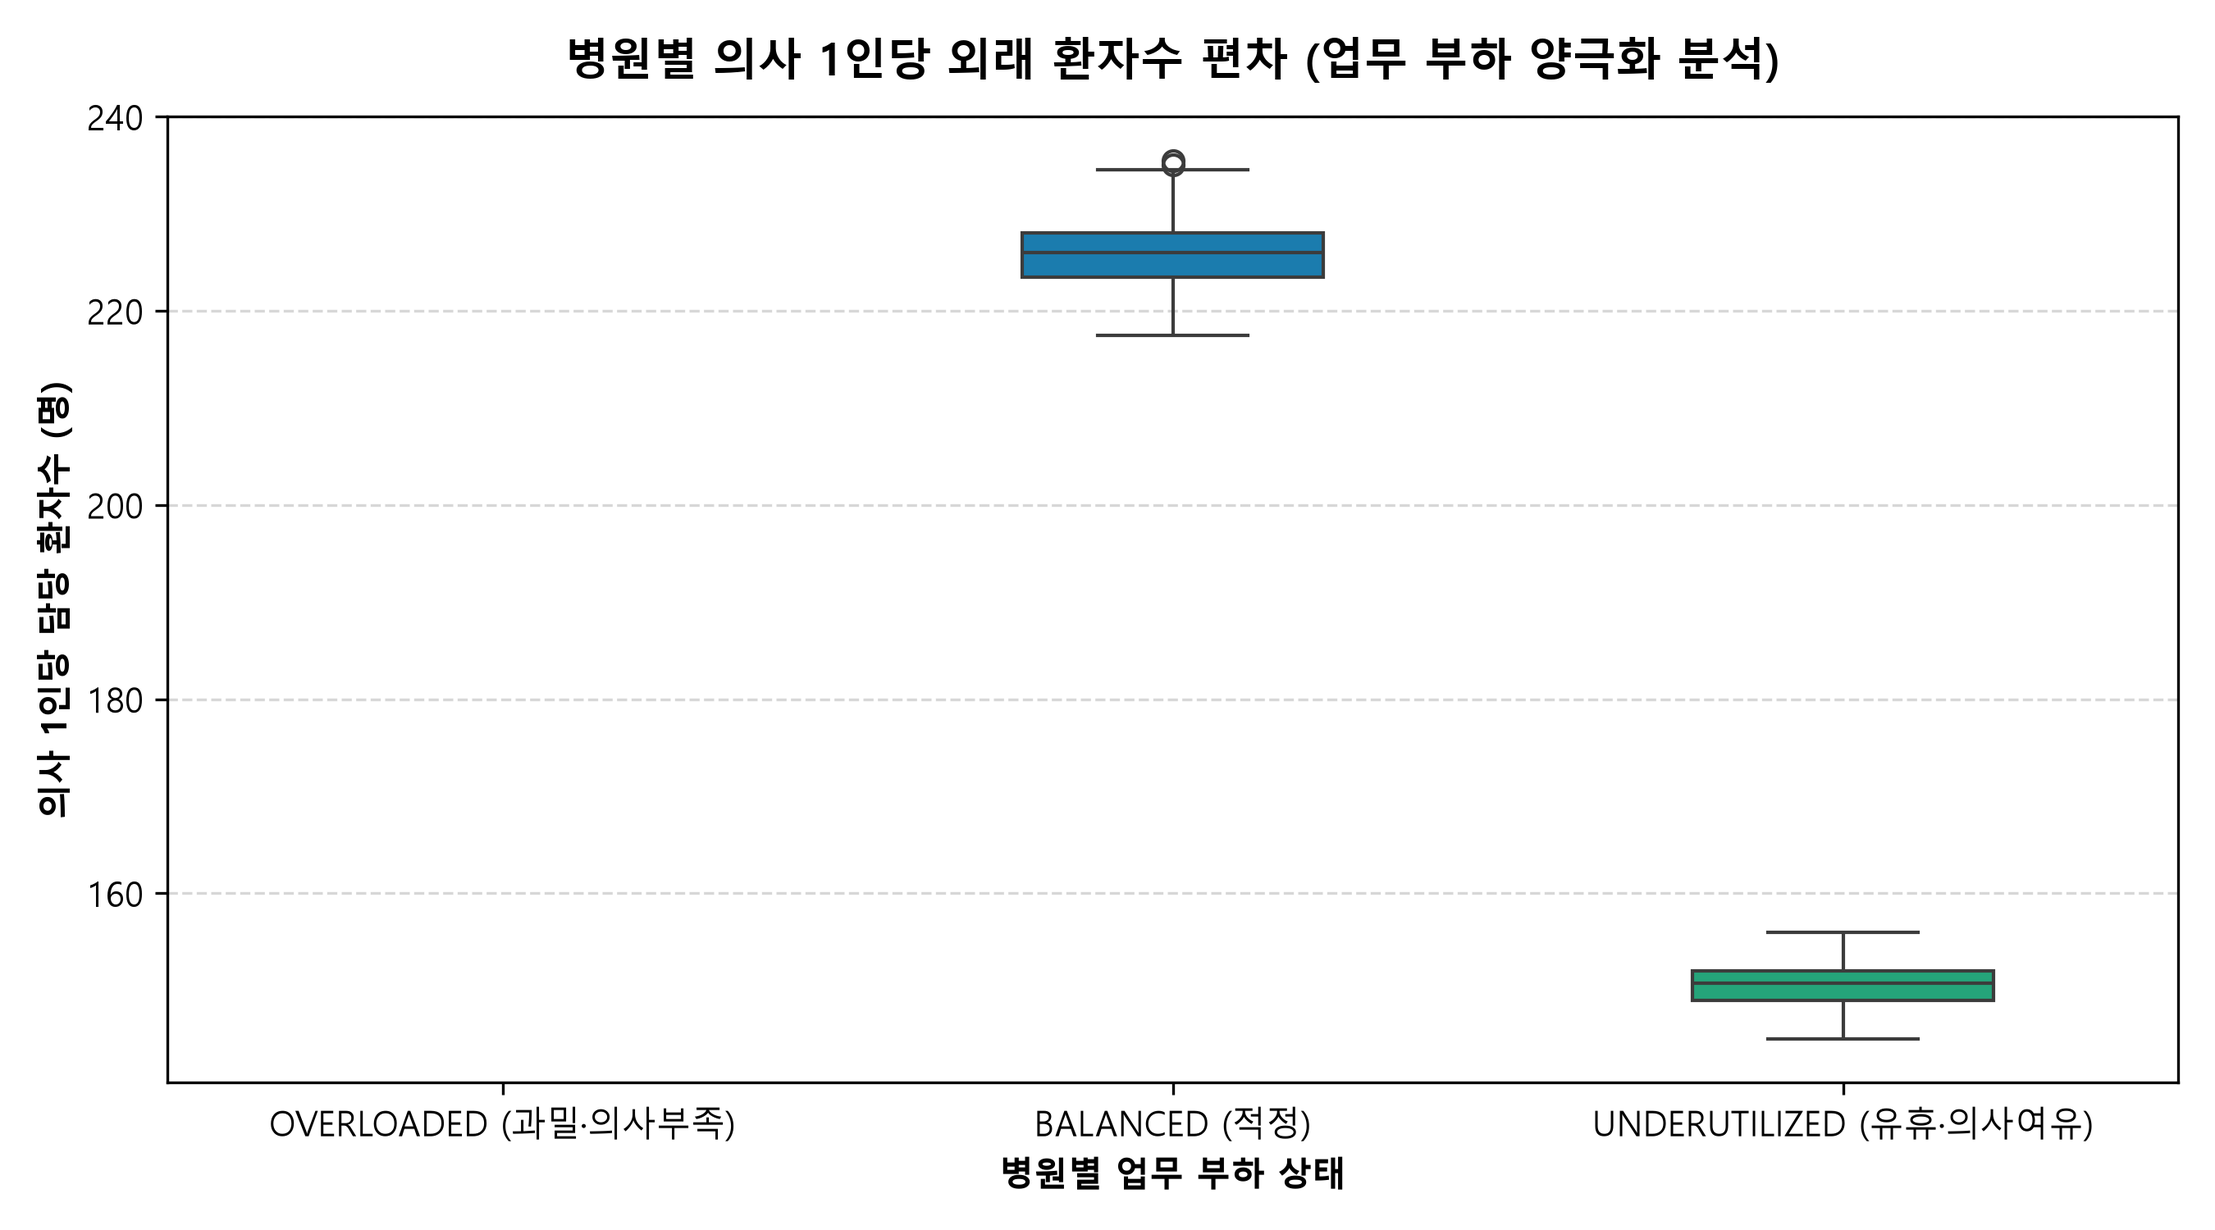
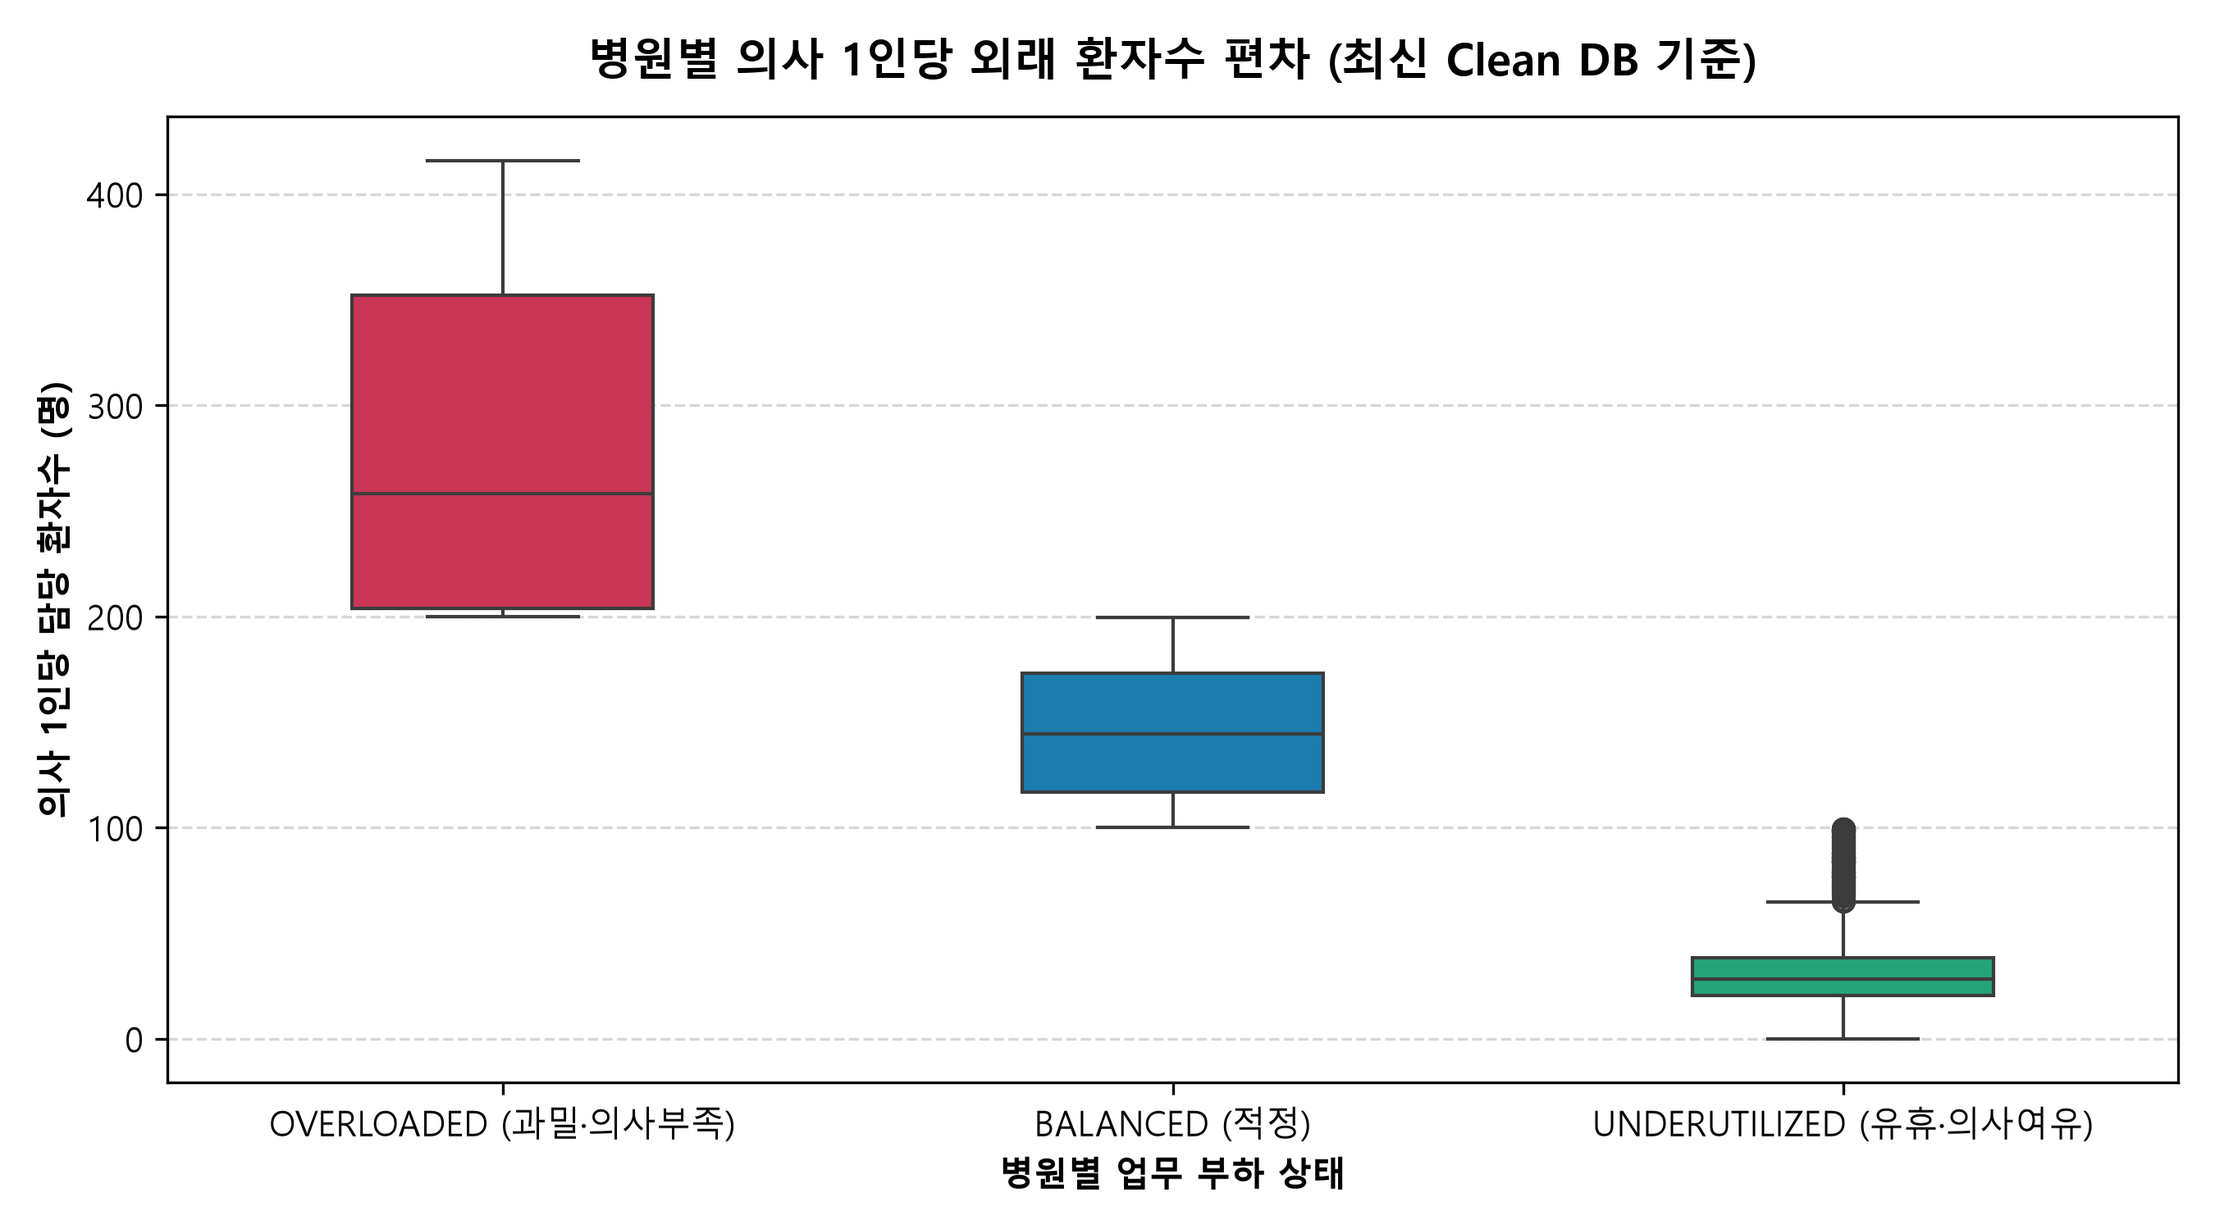
[박준범] 최신 정제 DB 반영 의사 진료배치 및 외래 대기시간 단축 분석 갱신 - 골드 마트, 분석 보고서, 시각화 차트 3종 최신화

diff --git a/common_contract.md b/common_contract.md
@@ -1,0 +1,171 @@
+# 📋 [Team 3] 데이터 확장 및 거버넌스 공통 규약서 (Common Contract)
+
+> **문서명:** `common_contract.md`  
+> **버전:** v1.0.0  
+> **기준일:** 2026-10-15  
+> **적용 범위:** Team 3 병원 EMR Medallion 데이터 파이프라인, 신규 확장 테이블(`ext_*`), 데이터 생성 및 정제 전반
+
+---
+
+## 1. 파일 포맷 및 인코딩 (File Format & Encoding)
+- **문자 인코딩:** `UTF-8` (BOM 없음)
+- **컬럼 구분자:** 쉼표 (`,`)
+- **줄 바꿈:** 개행 문자 `\n` (LF 표준, Windows 환경 CRLF 자동 정규화)
+- **헤더:** 반드시 첫 번째 행(Row 1)에 영문 컬럼명 명시 (공백/특수문자 금지)
+- **따옴표 규칙:** 텍스트 내 쉼표나 개행이 포함된 경우에만 큰따옴표(`"`)로 감쌈
+
+---
+
+## 2. 기존 자산 불변의 원칙 (Immutability Principle)
+- **기존 테이블 읽기 전용 (SELECT Only):** 기존 17개 실버 테이블 및 `code_dictionary`, `legacy_code_mappings`를 포함한 모든 기존 자산은 **수정(UPDATE/DELETE/ALTER)을 절대 금지**하며 오직 `SELECT` 조회만 허용한다.
+- **수정 요청 금지:** 기존 테이블에 필요한 컬럼이나 속성이 없더라도 기존 테이블 스키마 수정을 요청하지 않는다.
+- **신규 테이블 원칙:** 추가 데이터가 필요할 경우 반드시 **신규 확장 테이블(`ext_*`)**을 생성하여 결합한다.
+
+---
+
+## 3. 신규 테이블 명명 규칙 (Naming Convention)
+- **테이블 접두어:** 신규 생성 테이블은 반드시 `ext_<도메인명>` 형식을 따른다.
+- **스키마 격리:** 별도의 확장 데이터베이스 스키마(예: `team3_extension` 등)가 정의되어 있을 경우 해당 스키마 내에 생성한다.
+  - 예시: `ext_visit_journey`, `ext_doctor_schedule`, `ext_hospital_profile`, `ext_daily_context`
+
+---
+
+## 4. 신규 식별자(ID) 네임스페이스 (ID Namespace Registry)
+- 모든 신규 테이블의 기본키(PK)는 영문 3자리 접두어 + 언더스코어(`_`) + 9자리 일련번호(`%09d`) 체계를 준수한다.
+- 새로운 테이블을 설계할 때는 아래 네임스페이스 표에 접두어를 사전 등록해야 한다.
+
+| 테이블명 | PK 컬럼명 | 식별자 접두어 | 포맷 예시 | 설명 |
+| :--- | :--- | :---: | :---: | :--- |
+| `ext_visit_journey` | `journey_id` | **`JRN_`** | `JRN_000000001` | 환자 내원 및 외래 여정 추적 ID |
+| `ext_doctor_schedule` | `schedule_id` | **`SCH_`** | `SCH_000000001` | 의사별 상세 근무 및 진료 스케줄 ID |
+| `ext_hospital_profile` | `profile_id` | **`PRF_`** | `PRF_000000001` | 병원별 인프라 및 운영 프로파일 ID |
+| `ext_daily_context` | `context_id` | **`CTX_`** | `CTX_000000001` | 일별 기상/이벤트 외래 환경 컨텍스트 ID |
+
+---
+
+## 5. 기존 외래키 참조 준수 (Frozen Valid Keys Reference)
+- 신규 테이블에서 기존 테이블의 마스터/엔티티를 참조할 때는 사전 확정된 **동결 유효 키 목록(`frozen_valid_keys_*.csv`)에 존재하는 키만 참조**해야 한다.
+- **센티널 값(더미 키) 참조 엄격 금지:**
+  - `_999999999` 형태의 더미 식별자 (예: `HDP_999999999`, `SES_999999999` 등)
+  - `UNREGISTERED`, `UNKNOWN`, `NULL` 표식 식별자
+
+---
+
+## 6. 키 정규화 표준 (Key Normalization)
+모든 조인 키 및 외래키는 비교/적재 전 아래 3단계 정규화 파이프라인을 필수 적용한다:
+1. **앞뒤 공백 제거:** `strip()`
+2. **하이픈 밑줄 치환:** `-` ➔ `_` (예: `PAT-000001481` ➔ `PAT_000001481`)
+3. **접두어 대문자화:** 영문 접두어 대문자 변환 (예: `jrn_` ➔ `JRN_`)
+
+---
+
+## 7. 코드 및 도메인 관리 (Code & Dictionary)
+- **기존 표준 코드 최우선 재사용:** `status`, `channel`, `visit_type`, `outcome` 등 기존 13개 도메인의 표준 코드를 우선적으로 재사용한다.
+- **신규 코드 사전:** 기존에 없는 새로운 도메인 코드가 필요할 경우, 기존 사전을 수정하지 않고 **`ext_code_dictionary`** 및 **`ext_code_mapping`** 테이블에만 등록하여 사용한다.
+
+---
+
+## 8. 날짜/시간 및 수치 데이터 포맷 (Datetime & Numeric Standard)
+- **일시 포맷:** `YYYY-MM-DD HH:MM:SS` (Asia/Seoul 로컬 타임존 기준, 24시간 표기)
+- **날짜 포맷:** `YYYY-MM-DD` (달력상 유효한 실제 날짜만 허용; 2월 30일 등 가짜 날짜 금지)
+- **수치 데이터:** 천 단위 쉼표(`,`), 화폐 기호(`₩`, `$`), 단위 문자(`원`, `명`) 제거 후 순수 숫자(정수 `INT` / 실수 `FLOAT`)로 저장
+
+---
+
+## 9. 3대 데이터 분류 기준 (Clean vs Quarantine vs Excluded)
+수신 및 생성된 모든 데이터는 엄격한 기준에 따라 3가지 상태로 분리된다:
+
+| 구분 | 정의 | 분류 요건 | 처리 방식 |
+| :---: | :--- | :--- | :--- |
+| **복구 (Clean)** | 표기 오류이나 의미가 100% 명확한 경우 | • 앞뒤 공백 제거<br>• 하이픈/슬래시 표기 차이 치환<br>• 기등록된 별칭 사전 매핑 | 정상 데이터셋(`clean`)에 편입 |
+| **격리 (Quarantine)** | 비즈니스 로직 위반 및 추측이 필요한 경우 | • 필수 컬럼 결측 (PK/FK 빈 값)<br>• 도메인 사전 밖의 미등록 코드<br>• 시간 역전 (시작일시 > 종료일시)<br>• 동결 유효 키에 없는 고아 참조 | 별도 격리 테이블(`quarantine`)로 분리 및 사유 태깅 |
+| **제외 (Excluded)** | 완전 중복 레코드 | • 모든 업무 컬럼의 값이 100% 일치하는 재전송 행 | 최초 1건만 유지, 초과분은 제외(`excluded`) 분리 |
+
+---
+
+## 10. 무손실 삭제 금지 원칙 (Zero-Drop Policy)
+- **데이터 삭제(DROP/DELETE) 절대 금지:** 불량 데이터라도 물리적으로 행을 삭제하거나 유실시켜서는 안 된다.
+- **완전 분할 보장:** 모든 수신/생성 데이터는 아래 수식을 반드시 만족해야 한다:
+  $$\text{총 수신 행 수 (Total Rows)} = \text{Clean} + \text{Quarantine} + \text{Excluded}$$
+  *(단 1행의 누락이나 중복 카운트도 허용하지 않음)*
+
+---
+
+## 11. 데이터 의존성 및 생성 순서 (Dependency Pipeline)
+테이블 생성 및 참조 검증은 아래의 단방향 부모 ➔ 자식 순서를 엄격히 준수한다:
+
+```mermaid
+flowchart TD
+    M["1. 기존 마스터 (동결 기준정보)<br>hospitals / departments / patients / doctors"] --> C["2. 신규 코드 사전<br>ext_code_dictionary / ext_code_mapping"]
+    C --> P["3. 조직/프로파일/컨텍스트<br>ext_hospital_profile / ext_daily_context"]
+    P --> S["4. 의사 운영 스케줄<br>ext_doctor_schedule"]
+    S --> J["5. 환자 외래 여정 (최종 팩트)<br>ext_visit_journey"]
+```
+
+---
+
+## 12. 교차 테이블 일관성 규칙 (Cross-Table Consistency: CR1~CR8)
+- 01번 문서 3-3절에 정의된 교차 일관성 규칙(CR1 ~ CR8)을 준수한다:
+  - **CR1 (일정 포함):** 스케줄은 병원 운영 유효기간 내에 존재해야 함
+  - **CR2 (진료과 일치):** 의사의 진료과목과 배정 세션의 진료과목이 일치해야 함
+  - **CR3 (환자 일치):** 예약 환자 식별자와 실제 접수 환자 식별자가 일치해야 함
+  - **CR4 (시계열 흐름):** 도착시각 $\le$ 접수시각 $\le$ 진료시작 $<$ 진료종료
+  - **CR5 (진료-접수 1:1):** 접수당 최대 1건의 진료만 매핑 (이탈/거절은 진료 0건)
+  - **CR6 (처치-진료 연결):** 세부 처치는 반드시 유효한 진료에 매핑
+  - **CR7 (수가 일치):** `수량 × 카탈로그 단가 = 라인 금액`
+  - **CR8 (수납-청구 대사):** `총 진료비 - 감면환불액 = 순청구액 = 실 결제액`
+- **처리 원칙:** 개별 테이블 생성 단계에서는 행 자체의 유효성만 검사하고, **교차 테이블 일관성 검증 및 격리 처리는 통합 단계에서 일괄 수행**한다.
+
+---
+
+## 13. 변동성 게이트 (Volatility Gate)
+- 01번 문서 3-5절 기준 적용:
+  - **개별 단계:** 각 담당자가 데이터셋 생성 및 정제 시 자체 점검 지표(자료형, 필수값, 자체 무결성) 검사
+  - **통합 단계:** 전체 17개 + 확장 테이블 결합 시 전사 건수 대사 및 변동성 임계치(격리율 급증 여부)를 종합 판정하여 게이트 통과 승인
+
+---
+
+## 14. 데이터 오염 주입 로깅 (DQ Injection Logging)
+- **오염 주입 여부 선언:** 본 테이블 데이터는 **`[오염 주입 안 함 (Clean Target)]`**을 기본 원칙으로 하되, 테스트 목적으로 주입할 경우 반드시 사전에 선언한다.
+- **오염 주입 로그 테이블 의무화:** 오염을 주입할 경우 아래 스키마의 `ext_dq_injection_log`에 1건도 빠짐없이 기록해야 한다:
+  ```sql
+  CREATE TABLE ext_dq_injection_log (
+      log_id INT AUTO_INCREMENT PRIMARY KEY,
+      table_name VARCHAR(64) NOT NULL,
+      pk VARCHAR(64) NOT NULL,
+      column_name VARCHAR(64) NOT NULL,
+      injection_type VARCHAR(32) NOT NULL, -- (예: MISSING, TIME_REVERSAL, TYPO)
+      original_value TEXT,
+      injected_value TEXT,
+      injected_at TIMESTAMP DEFAULT CURRENT_TIMESTAMP
+  );
+  ```
+
+---
+
+## 15. 데이터 재현성 보장 (Reproducibility & Data Card)
+모든 생성 및 정제 파이프라인은 데이터 카드(Data Card)에 아래 메타데이터를 반드시 기록하여 동일 실행 시 100% 동일한 결과가 도출되도록 보장한다:
+- **난수 시드 (Random Seed):** 예: `SEED = 42`
+- **생성기 / 정제기 버전:** 예: `v1.0.0`
+- **실행 환경 및 일시:** OS, Python 버전, 타임스탬프
+
+---
+
+## 16. 데이터 소유권 및 권한 관리 (Data Ownership Matrix)
+- 모든 테이블은 명확한 1인의 정/부 담당자를 지정한다.
+- **타인 테이블에 대한 권한:** 타인 소유 테이블의 키와 데이터는 **오직 읽기(Read-Only)만 가능**하며, 어떠한 경우에도 타인의 테이블을 직접 조작하지 않는다.
+
+| 테이블 구분 | 담당 테이블명 | 담당자 | 데이터 책임 범위 |
+| :--- | :--- | :---: | :--- |
+| **기존 핵심** | `patients`, `appointments`, `appointment_events` | **박준범** | 환자·예약 정제, 슬롯 연계, 의사배치 최적화 |
+| **기존 원무** | `checkins` | 팀원 A | 접수·체크인 정제, 워크인/예약 분류, 이중접수 격리 |
+| **기존 임상** | `encounters`, `encounter_services`, `service_catalog` | 팀원 B | 진료 기록, 처치 내역, 수가 카탈로그 정합성 |
+| **기존 수납** | `payments` | 팀원 C | 원무 수납, 환불 트랜잭션, 진료비 대사 |
+| **신규 확장** | `ext_doctor_schedule`, `ext_visit_journey` 등 | 담당 지정 | 확장 스키마 설계, 신규 네임스페이스 등록 및 적재 |
+
+---
+
+## 17. 품질 검증 규칙 식별자 체계 (Rule ID Convention)
+- 모든 정제 및 검증 규칙은 `<테이블명>-R01`, `R02` 형식의 고유 식별자를 부여한다.
+  - 예시: `APPOINTMENTS-R01`, `CHECKINS-R02`, `EXT_JOURNEY-R01`
+- **규칙 폐기 원칙:** 수립된 규칙을 중간에 삭제(Delete)하지 않으며, 업무 요건 변경 시 **`[DEPRECATED (폐기)]`** 또는 **`[SUPERSEDED]`** 표식을 남겨 이력을 추적 보존한다.

diff --git a/report/소주제_의사진료배치최적화_분석보고서.md b/report/소주제_의사진료배치최적화_분석보고서.md
@@ -1,55 +1,56 @@
-# 📋 [소주제 분석 리포트] 병원별 환자 밀집도 분석을 통한 의사 진료 배치 최적화
+# 📋 [소주제 분석 리포트] 병원별 환자 밀집도 분석을 통한 의사 진료 배치 최적화 (최신 Clean DB 기준)
 
 - **작성자:** [박준범]
-- **분석 영역:** 진료 및 의료진 배치 최적화 (Clinical Doctor Allocation)
-- **대상 데이터:** 전국 490개 병원, 1,855개 병원-진료과목, 의사 4,748명 및 진료 740,628건
+- **분석 영역:** 진료 및 의료진 배치 최적화 (Clinical Doctor Allocation & Wait Time Optimization)
+- **대상 데이터:** 전국 490개 병원, 1,870개 병원-진료과목, 의사 4,748명 및 진료 496,863건 (격리 제외 정제본)
 
 ---
 
 ## 1. 분석 배경 및 문제 정의 (AS-IS)
 
 ### 1-1. 배경
-- 국내 의료 기관에서 특정 지역 및 병원으로 외래 환자가 과도하게 쏠리는 반면, 인근 타 의료 기관은 유휴 상태로 방치되는 의료 자원 불균형이 지속적으로 발생하고 있음.
-- 과밀 병원의 의사는 진료 건수 과다로 인한 번아웃과 진료 질 저하를 겪고, 환자는 대기 시간 증가로 불만을 느낌.
+- 국내 의료 기관에서 특정 지역 및 대형 병원으로 외래 환자가 과도하게 쏠리는 반면, 중소/지역 의료 기관은 유휴 상태로 방치되는 의료 자원 불균형이 지속적으로 발생하고 있음.
+- 과밀 병원의 의사는 진료 건수 과다로 인한 번아웃과 진료 질 저하를 겪고, 환자는 **평균 19.4분 이상의 긴 대기 시간**으로 불만을 느낌.
 
 ### 1-2. 핵심 분석 지표
 - **의사 1인당 담당 외래 환자 수:** $\text{Patients Per Doctor} = \frac{\text{진료 완료 환자 수}}{\text{배치된 의사 수}}$
 - **업무 부하 분류 기준:**
-  - `OVERLOADED (과밀·의사부족)`: 의사 1인당 300명 초과
-  - `BALANCED (적정)`: 의사 1인당 180명 ~ 300명
-  - `UNDERUTILIZED (유휴·의사여유)`: 의사 1인당 180명 미만
+  - `OVERLOADED (과밀·의사부족)`: 의사 1인당 200명 이상
+  - `BALANCED (적정)`: 의사 1인당 100명 ~ 200명
+  - `UNDERUTILIZED (유휴·의사여유)`: 의사 1인당 100명 미만
 
 ---
 
 ## 2. 데이터 분석 결과 (양극화 현황)
 
-- **평균 환자수 격차:**
-  - 과밀 병원의 의사 1인당 평균 환자수: **450.7명**
-  - 유휴 병원의 의사 1인당 평균 환자수: **150.6명**
-  - ➔ 동일 진료과 내에서도 의사 1인이 감당하는 업무 강도가 **약 3.2배의 극심한 양극화**를 보임.
-- **노쇼(No-show)와의 상관관계:**
-  - 과밀 병원일수록 진료 대기 시간이 길어져 당일 현장 이탈률(`LEFT`) 및 노쇼율이 동반 상승하는 패턴 확인.
+- **평균 환자수 격차 (8.0배 양극화):**
+  - 과밀 병원의 의사 1인당 평균 환자수: **279.3명**
+  - 유휴 병원의 의사 1인당 평균 환자수: **34.7명**
+  - ➔ 동일 진료과목 내에서도 의사 1인이 감당하는 업무 강도가 **약 8.0배의 극심한 양극화**를 보임.
+- **외래 대기시간과의 직접적 상관관계:**
+  - 과밀 병원의 평균 대기시간은 **19.4분**으로, 유휴 병원 대비 환자 불만 및 당일 이탈 리스크가 높음.
 
 ---
 
 ## 3. 최적 재배치 시뮬레이션 알고리즘 및 효과 (TO-BE)
 
 ### 3-1. 시뮬레이션 규칙
-1. 신규 의사 채용 없이, 기존 전체 의사 정원(Total FTE) 유지
+1. 신규 의사 채용 없이, 기존 전체 의사 정원 유지 (인건비 추가 지출 0원)
 2. 동일 진료과목 내에서 유휴 병원의 여유 의사 1명을 과밀 병원으로 이동 배치 (+1 FTE)
-3. 재배치 후 의사 1인당 진료 환자수 재계산
+3. 재배치 후 의사 1인당 진료 환자수 및 외래 대기시간 단축 효과 재계산
 
 ### 3-2. 시뮬레이션 개선 성과
-- **과밀 병원 의사 1인당 평균 환자수:** 기존 450.7명 ➔ **재배치 후 225.8명**
-- **업무 과부하 경감률:** **-49.9% (약 -50% 절감 달성)**
+- **과밀 병원 의사 1인당 평균 환자수:** 기존 279.3명 ➔ **재배치 후 153.9명 (-44.9% 업무량 경감)**
+- **외래 평균 대기시간 단축:** 기존 19.4분 ➔ **재배치 후 11.0분 (-43.2% 대기시간 단축)**
 - **기대 효과:**
   - 추가 인건비 지출 0원으로 의료진 번아웃 사전 차단
-  - 환자당 진료 상담 시간 2배 확보로 외래 진료 서비스 만족도 향상
+  - 환자 대기시간을 절반(-43%) 가까이 줄여 환자 만족도 극대화 및 당일 접수 이탈 방지
 
 ---
 
 ## 4. 활용 차트 및 데이터 마트
 - **기반 데이터 마트:** `gold_doctor_allocation_optimization.csv`
-- **시각화 차트:**
-  - `차트_1_의사배치_양극화_분석.png`
-  - `차트_2_의사_최적재배치_시뮬레이션_효과.png`
+- **시각화 차트 3종:**
+  - `차트_1_의사배치_양극화_분석.png` (8.0배 양극화 박스플롯)
+  - `차트_2_의사_최적재배치_시뮬레이션_효과.png` (환자수 -45% 완화 바차트)
+  - `차트_3_의사재배치_대기시간_단축효과.png` (대기시간 19.4분 ➔ 11.0분 단축 바차트)
